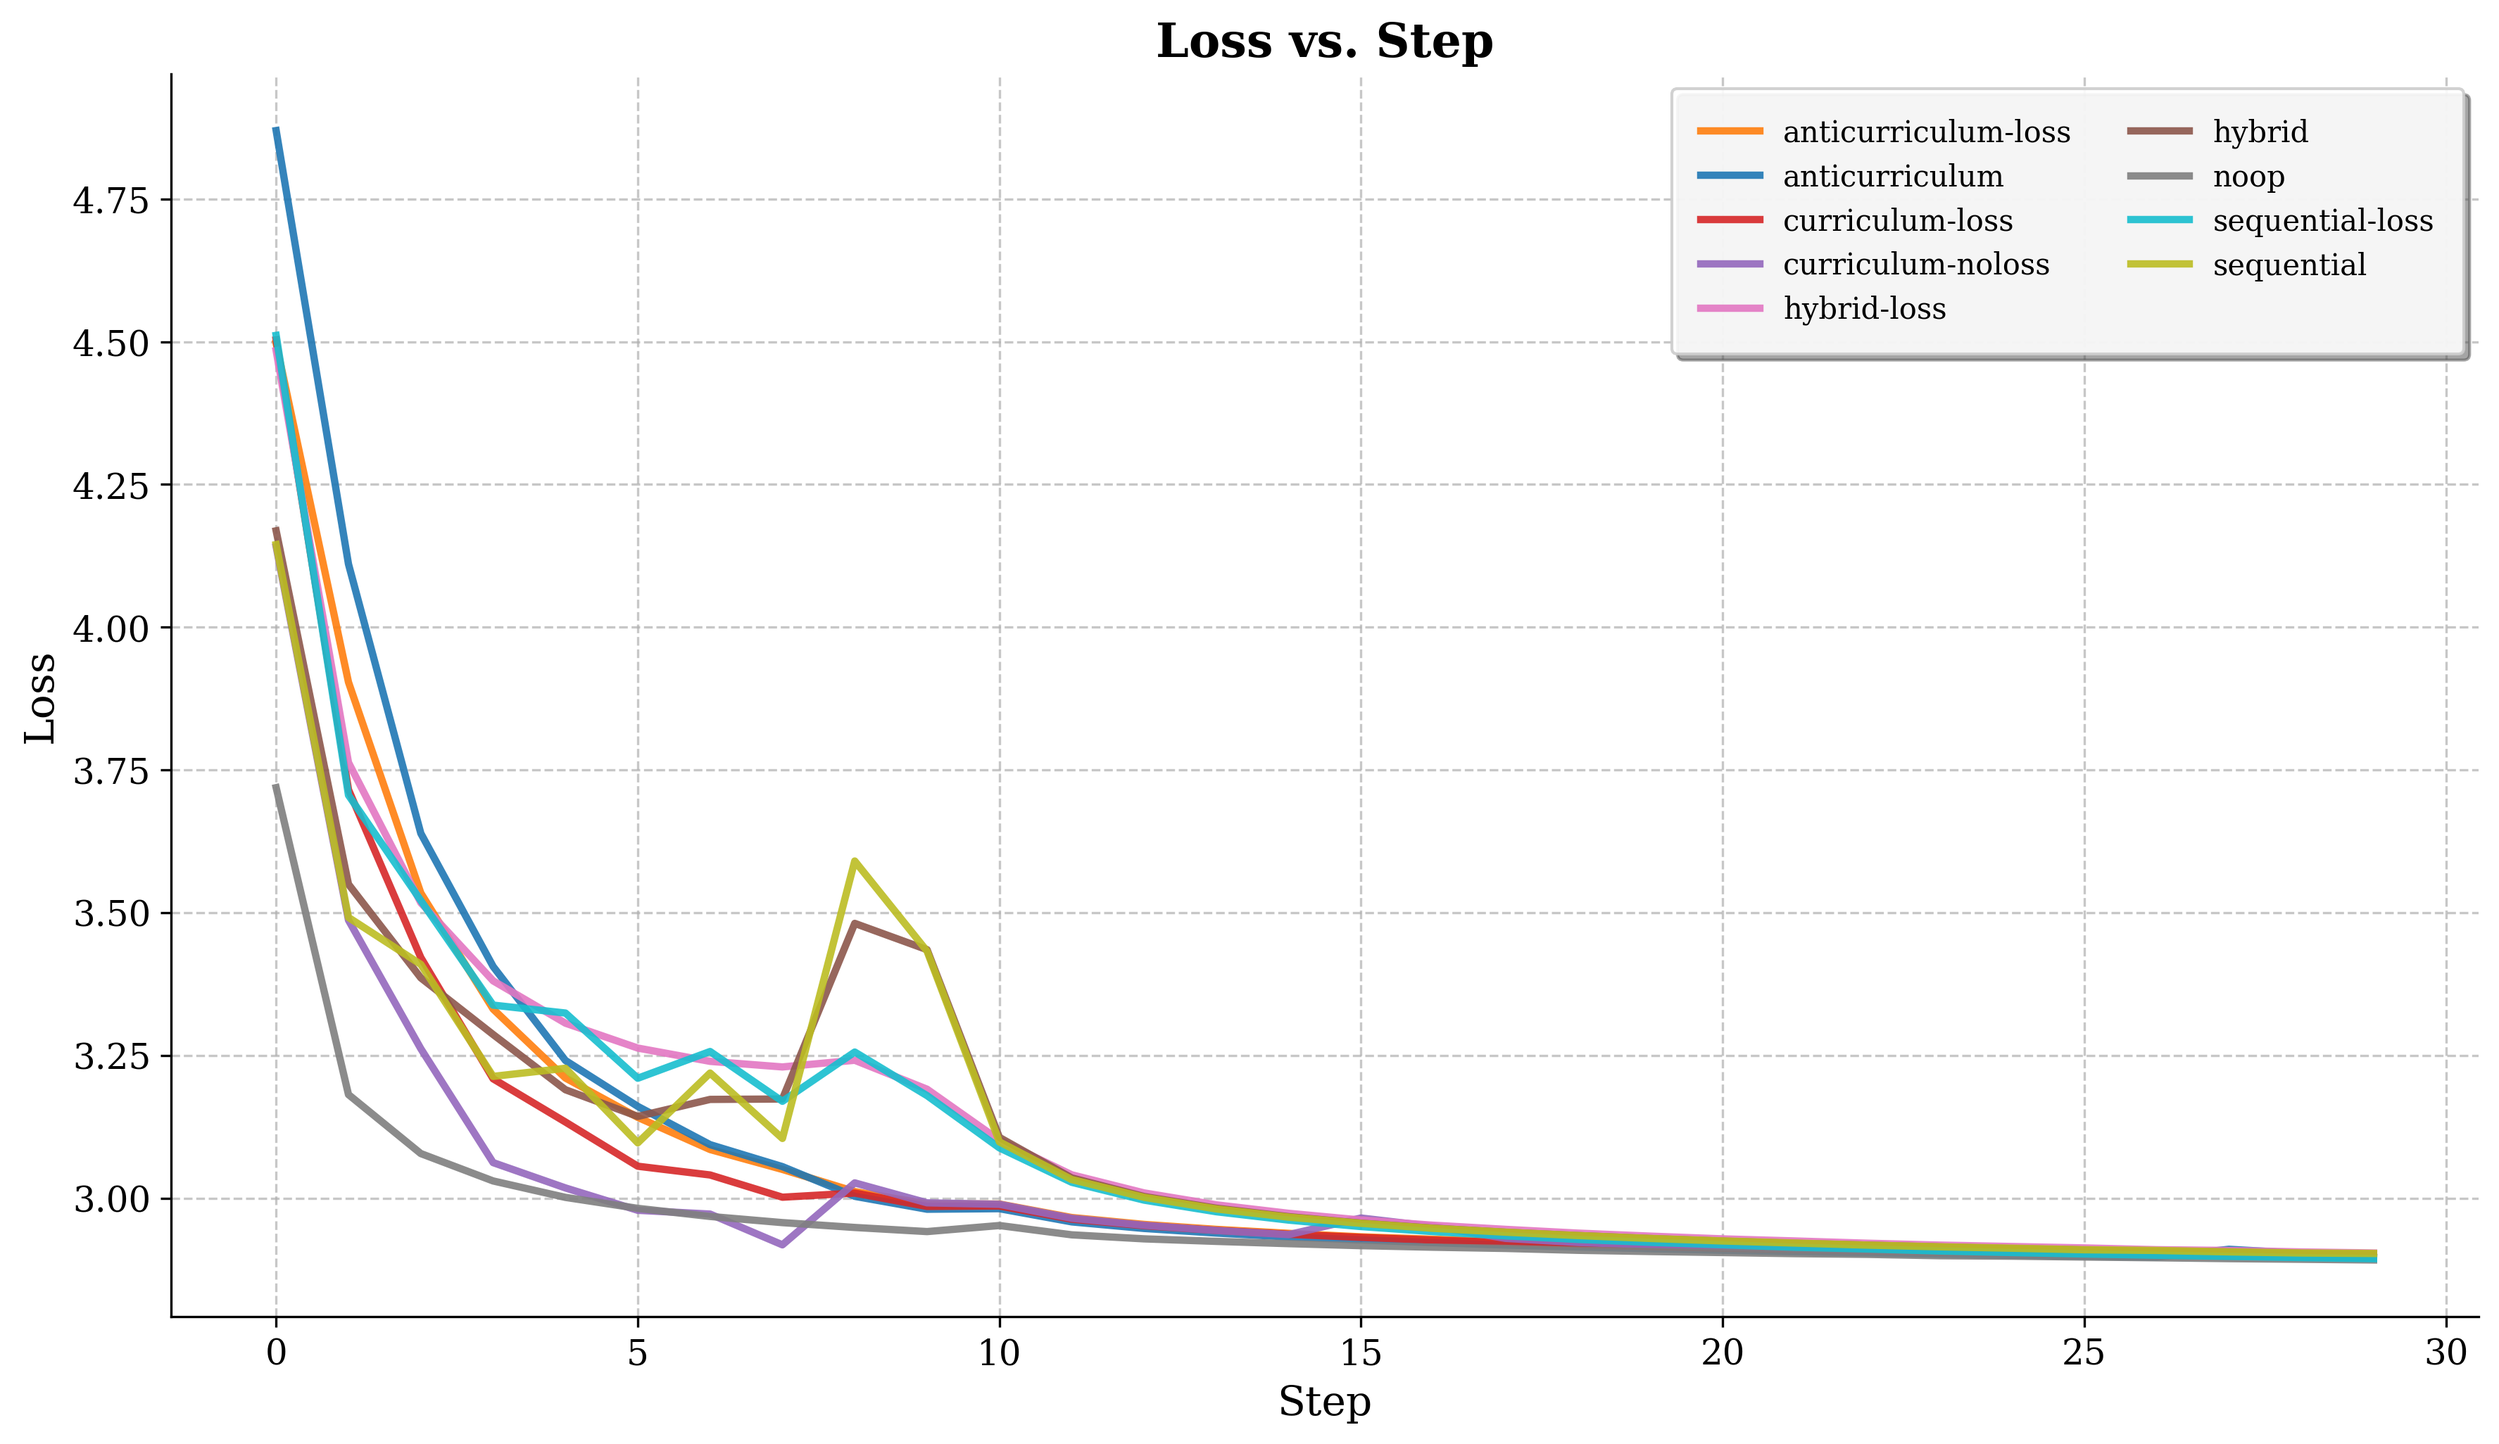
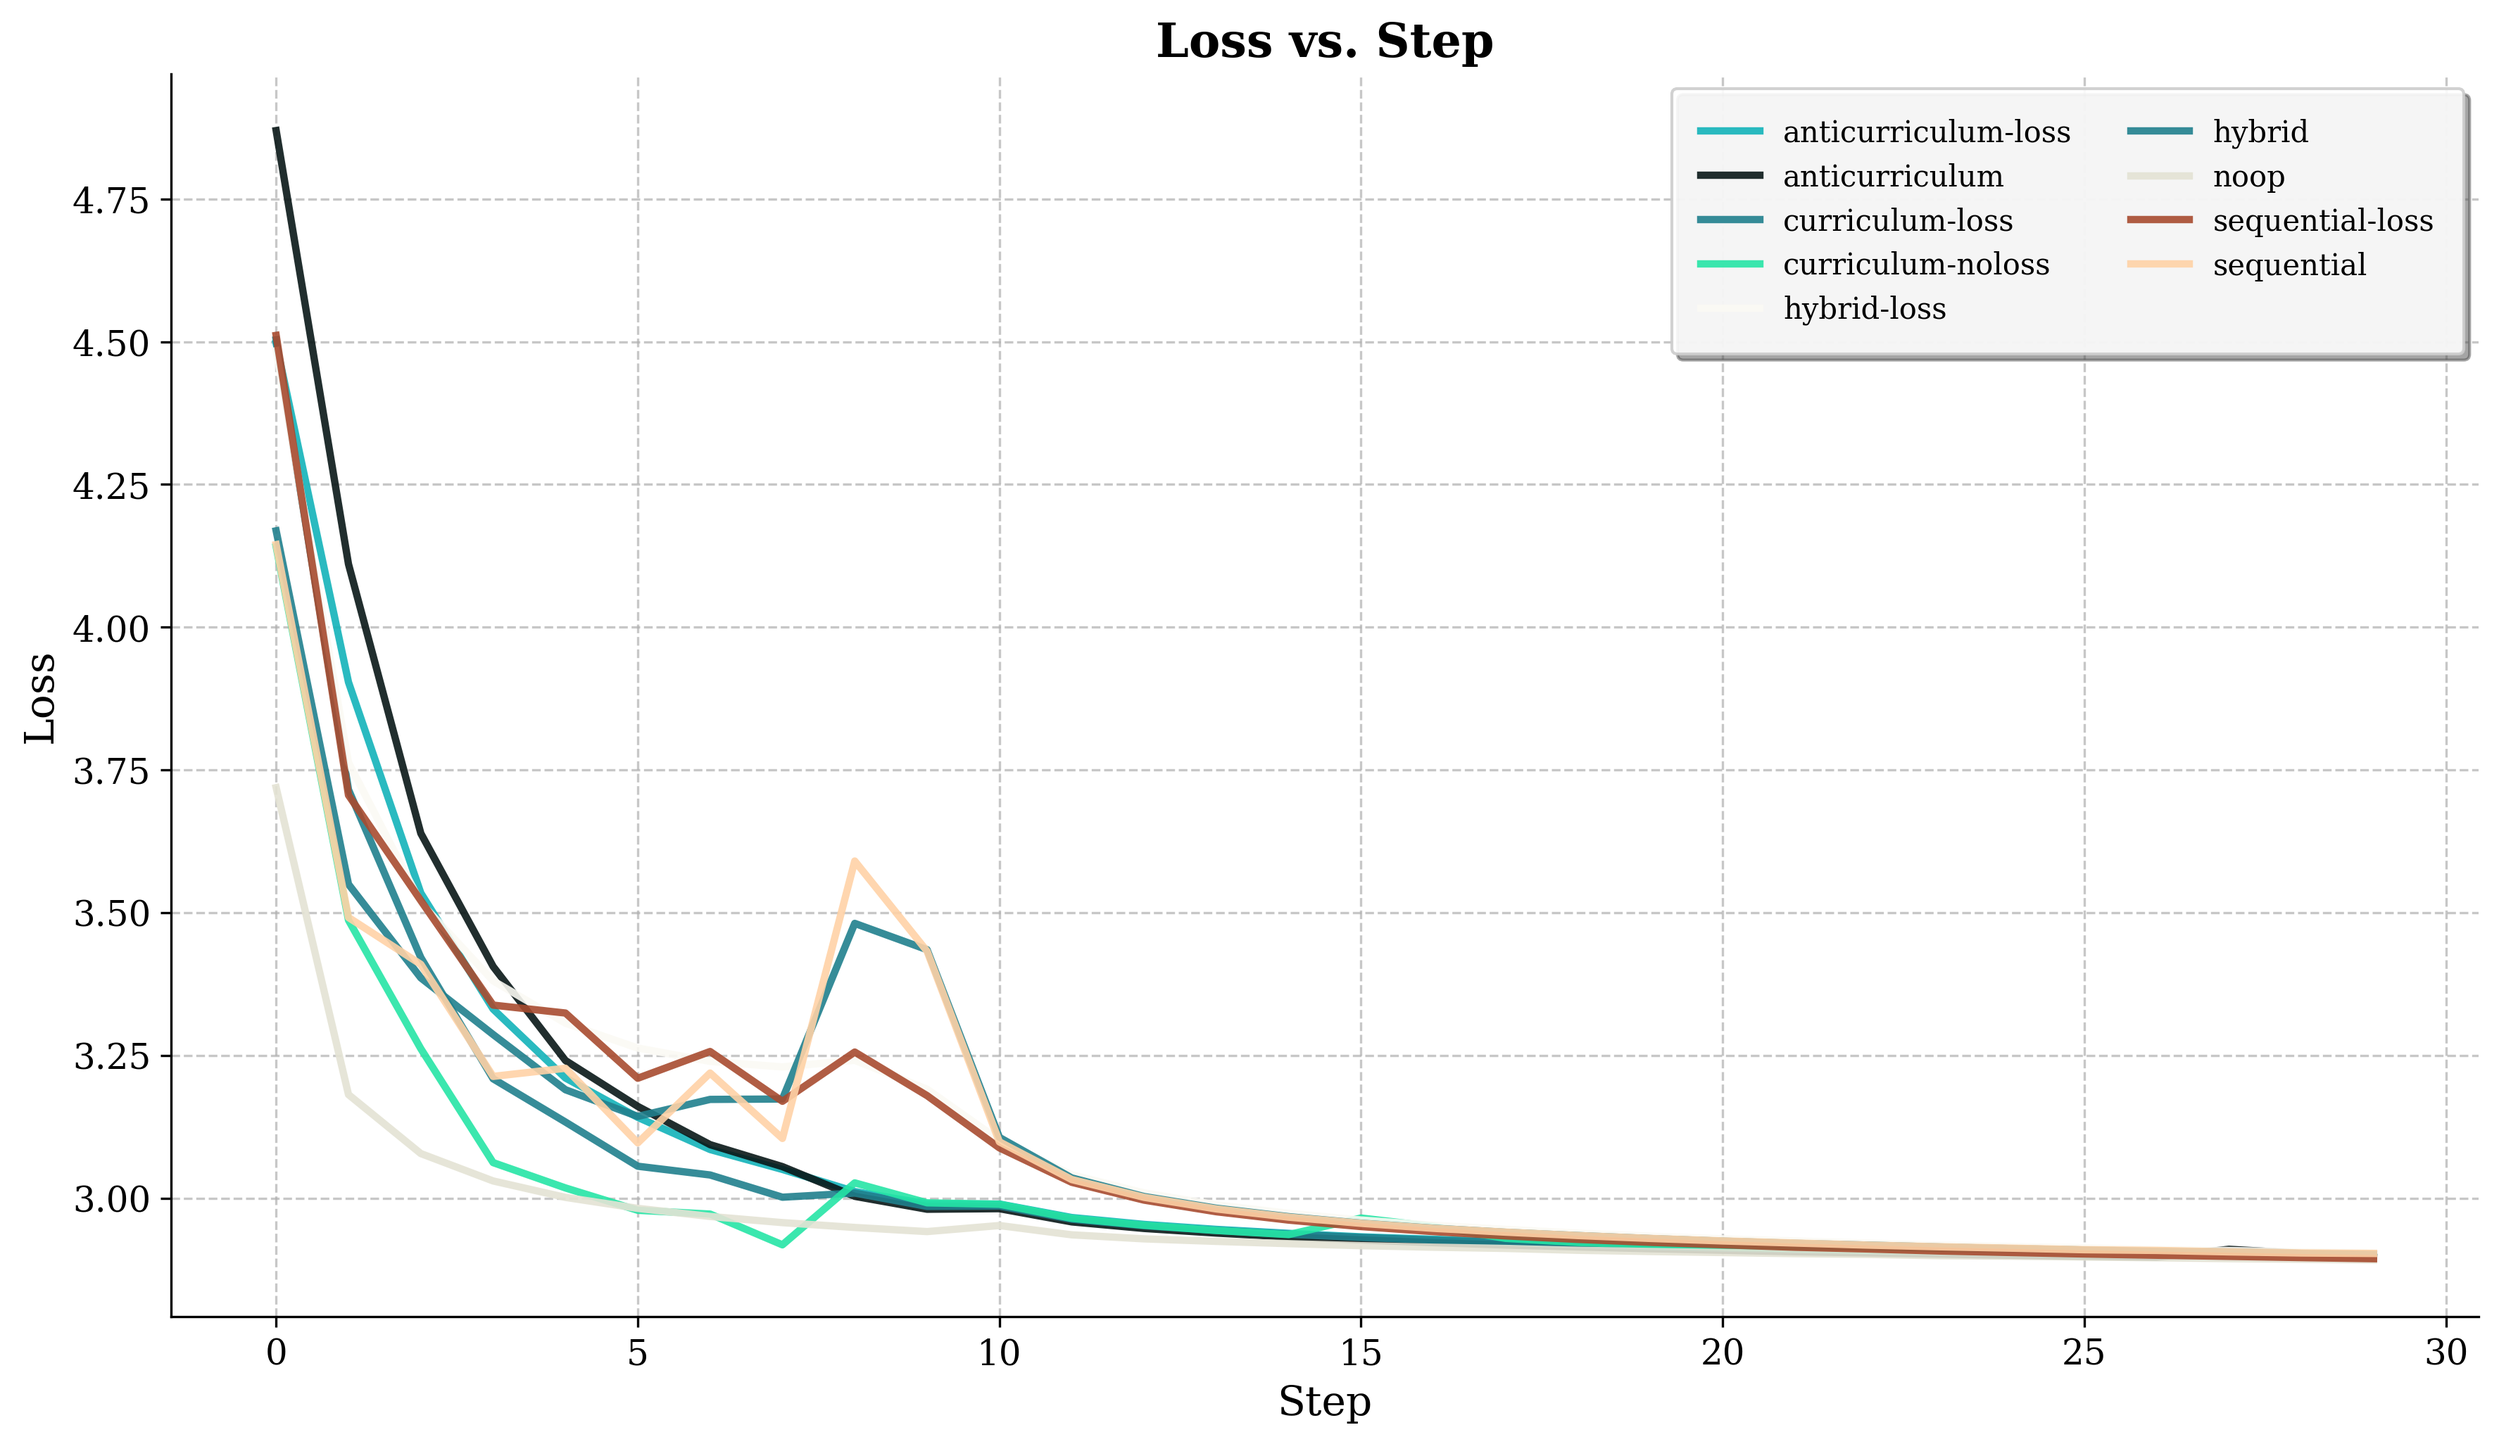
new colors

Changed region(s): [[0.093, 0.0936, 0.9606, 0.8733], [0.6817, 0.0624, 0.7127, 0.2183], [0.8366, 0.1248, 0.8676, 0.1871]]

diff --git a/archive-misc/plot_metrics.py b/archive-misc/plot_metrics.py
@@ -45,18 +45,39 @@ def get_metric_label(metric_name):
 def get_color_mapping(run_names):
     """Create a consistent color mapping for all runs."""
     # Define a color palette with distinct colors
-    colors = [
-        '#1f77b4',  # Blue
-        '#ff7f0e',  # Orange
-        '#2ca02c',  # Green
-        '#d62728',  # Red
-        '#9467bd',  # Purple
-        '#8c564b',  # Brown
-        '#e377c2',  # Pink
-        '#7f7f7f',  # Gray
-        '#bcbd22',  # Yellow-green
-        '#17becf',  # Cyan
-    ]
+    # colors = [
+    #     '#1f77b4',  # Blue
+    #     '#ff7f0e',  # Orange
+    #     '#2ca02c',  # Green
+    #     '#d62728',  # Red
+    #     '#9467bd',  # Purple
+    #     '#8c564b',  # Brown
+    #     '#e377c2',  # Pink
+    #     '#7f7f7f',  # Gray
+    #     '#bcbd22',  # Yellow-green
+    #     '#17becf',  # Cyan
+    # ]
+    colors = """#091717
+
+#13B3B9
+
+#265E5A
+
+#20808D
+
+#25E5A5
+
+#20808D
+
+#FBFAF4
+
+#E4E3D4
+
+#FFD2A6
+
+#A84B2F
+
+#944454""".lower().split("\n\n")
     
     # Create a mapping of run names to colors
     return {name: colors[i % len(colors)] for i, name in enumerate(sorted(run_names))}
